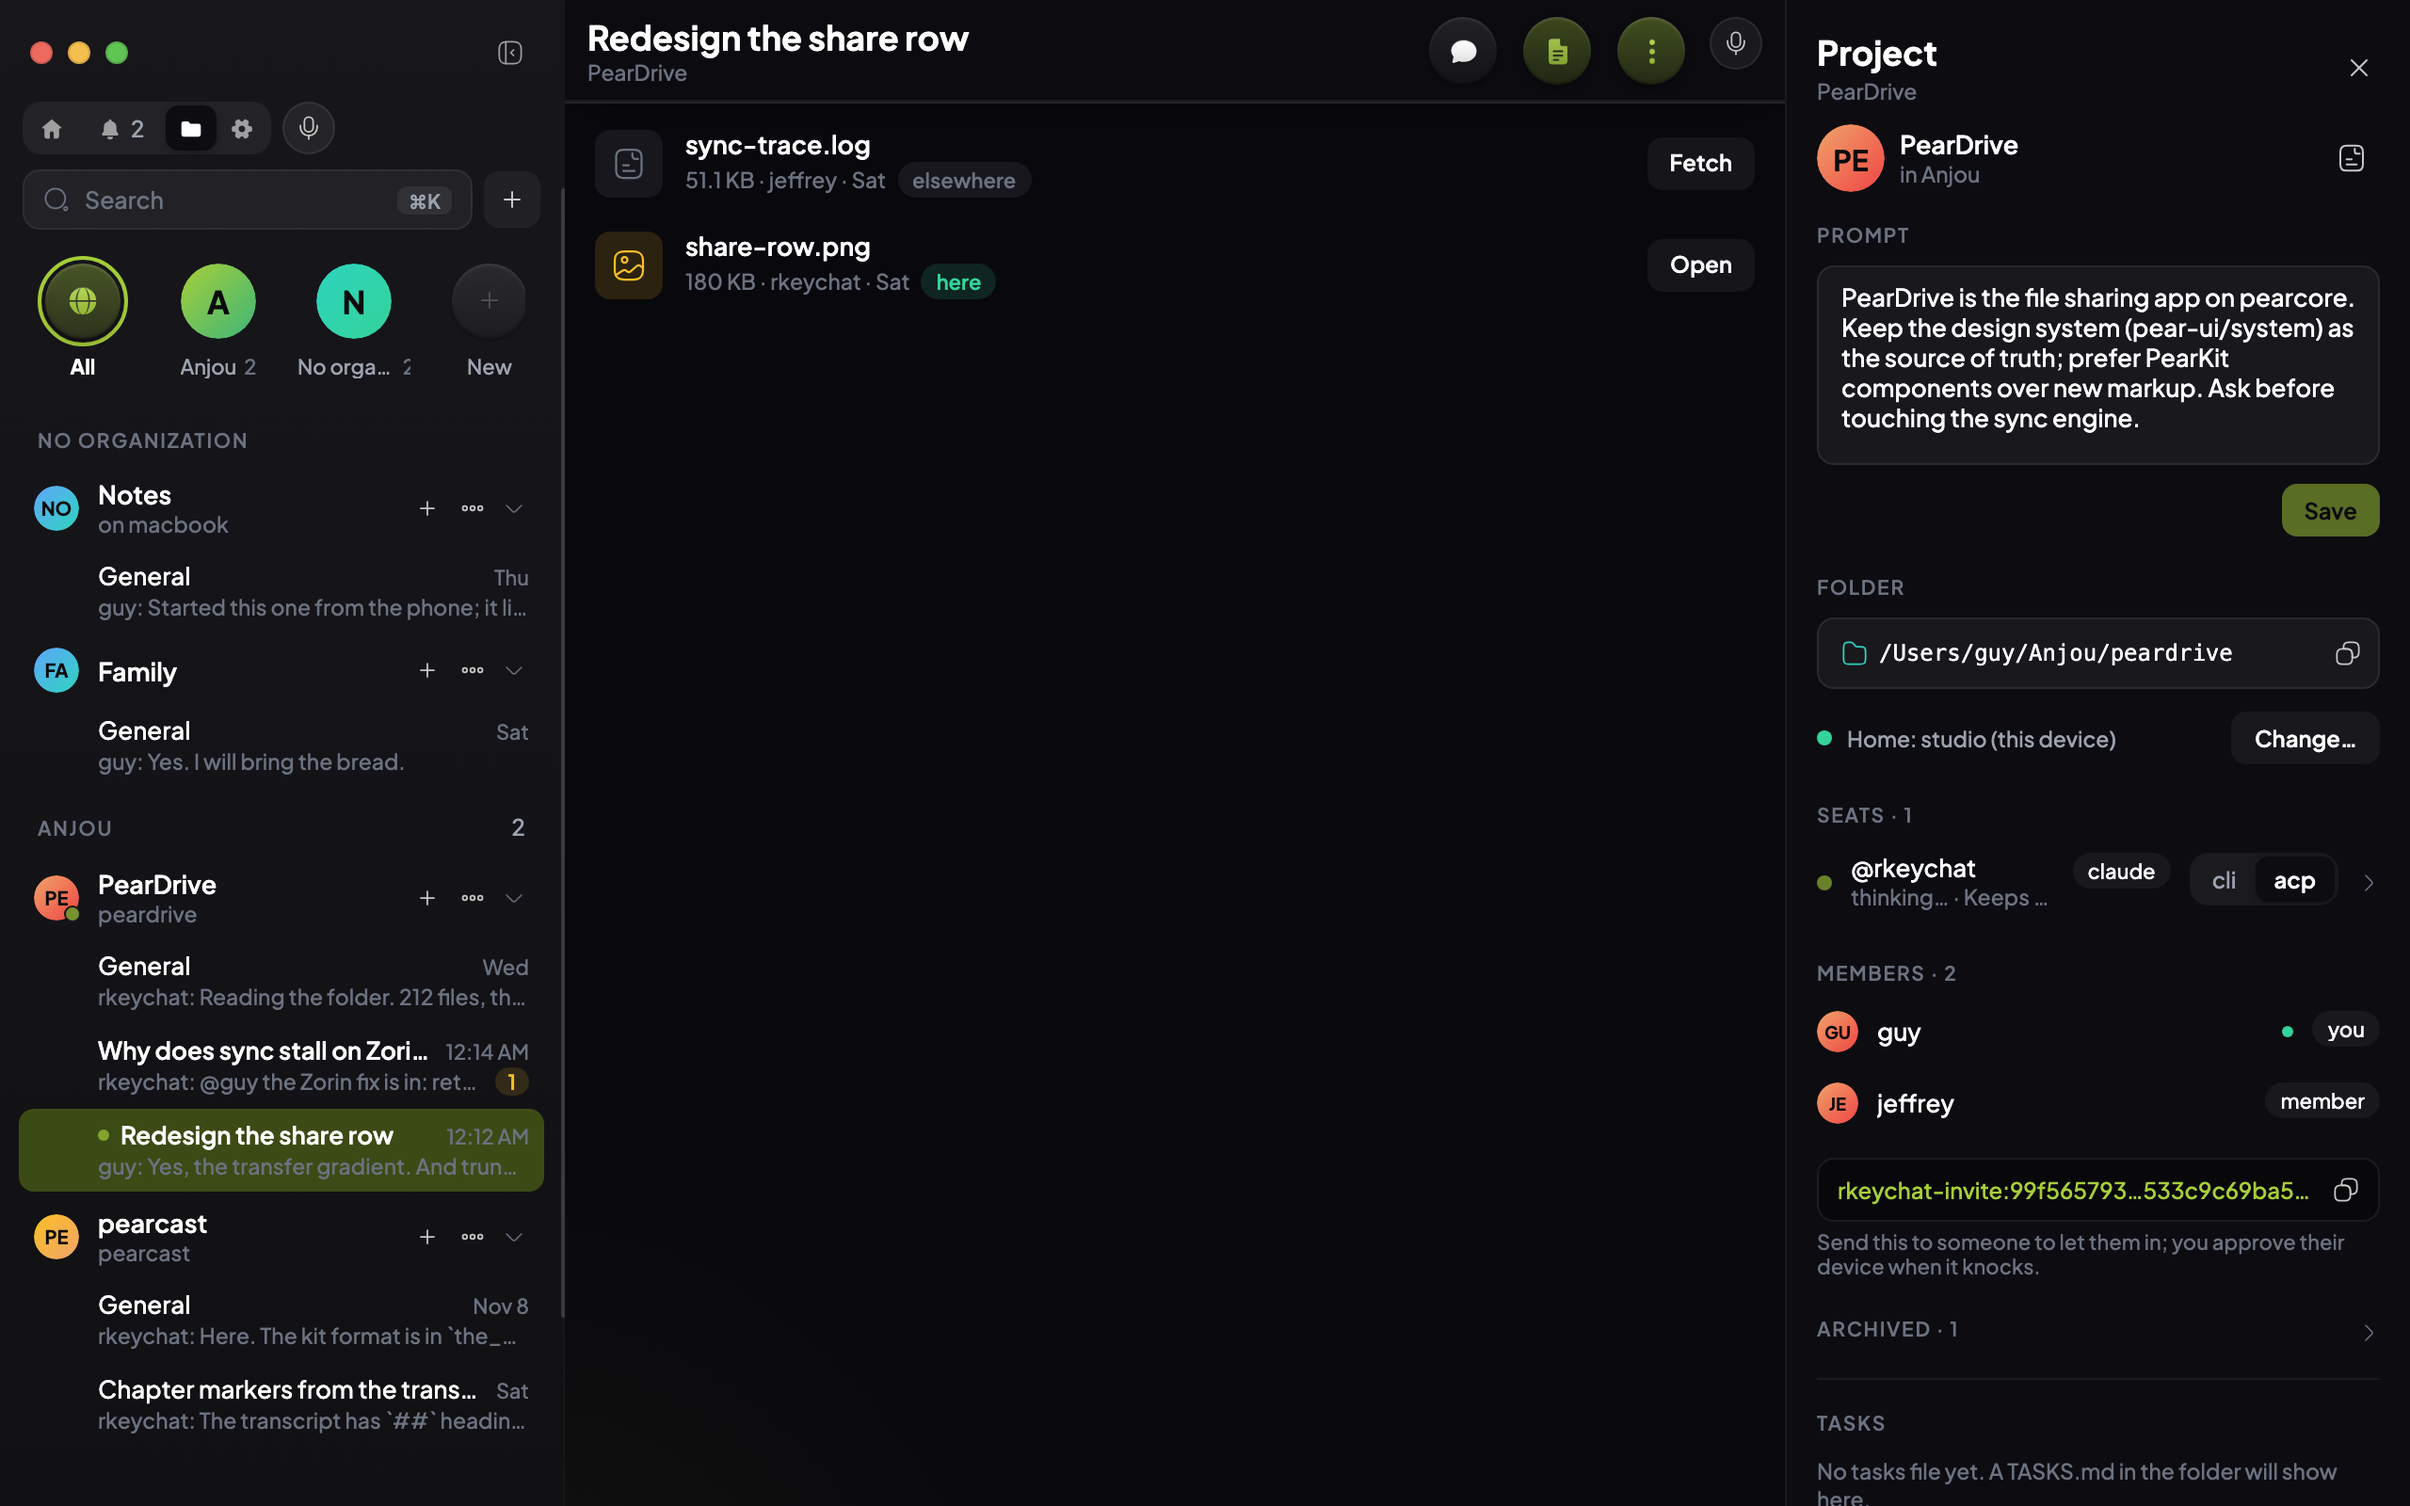
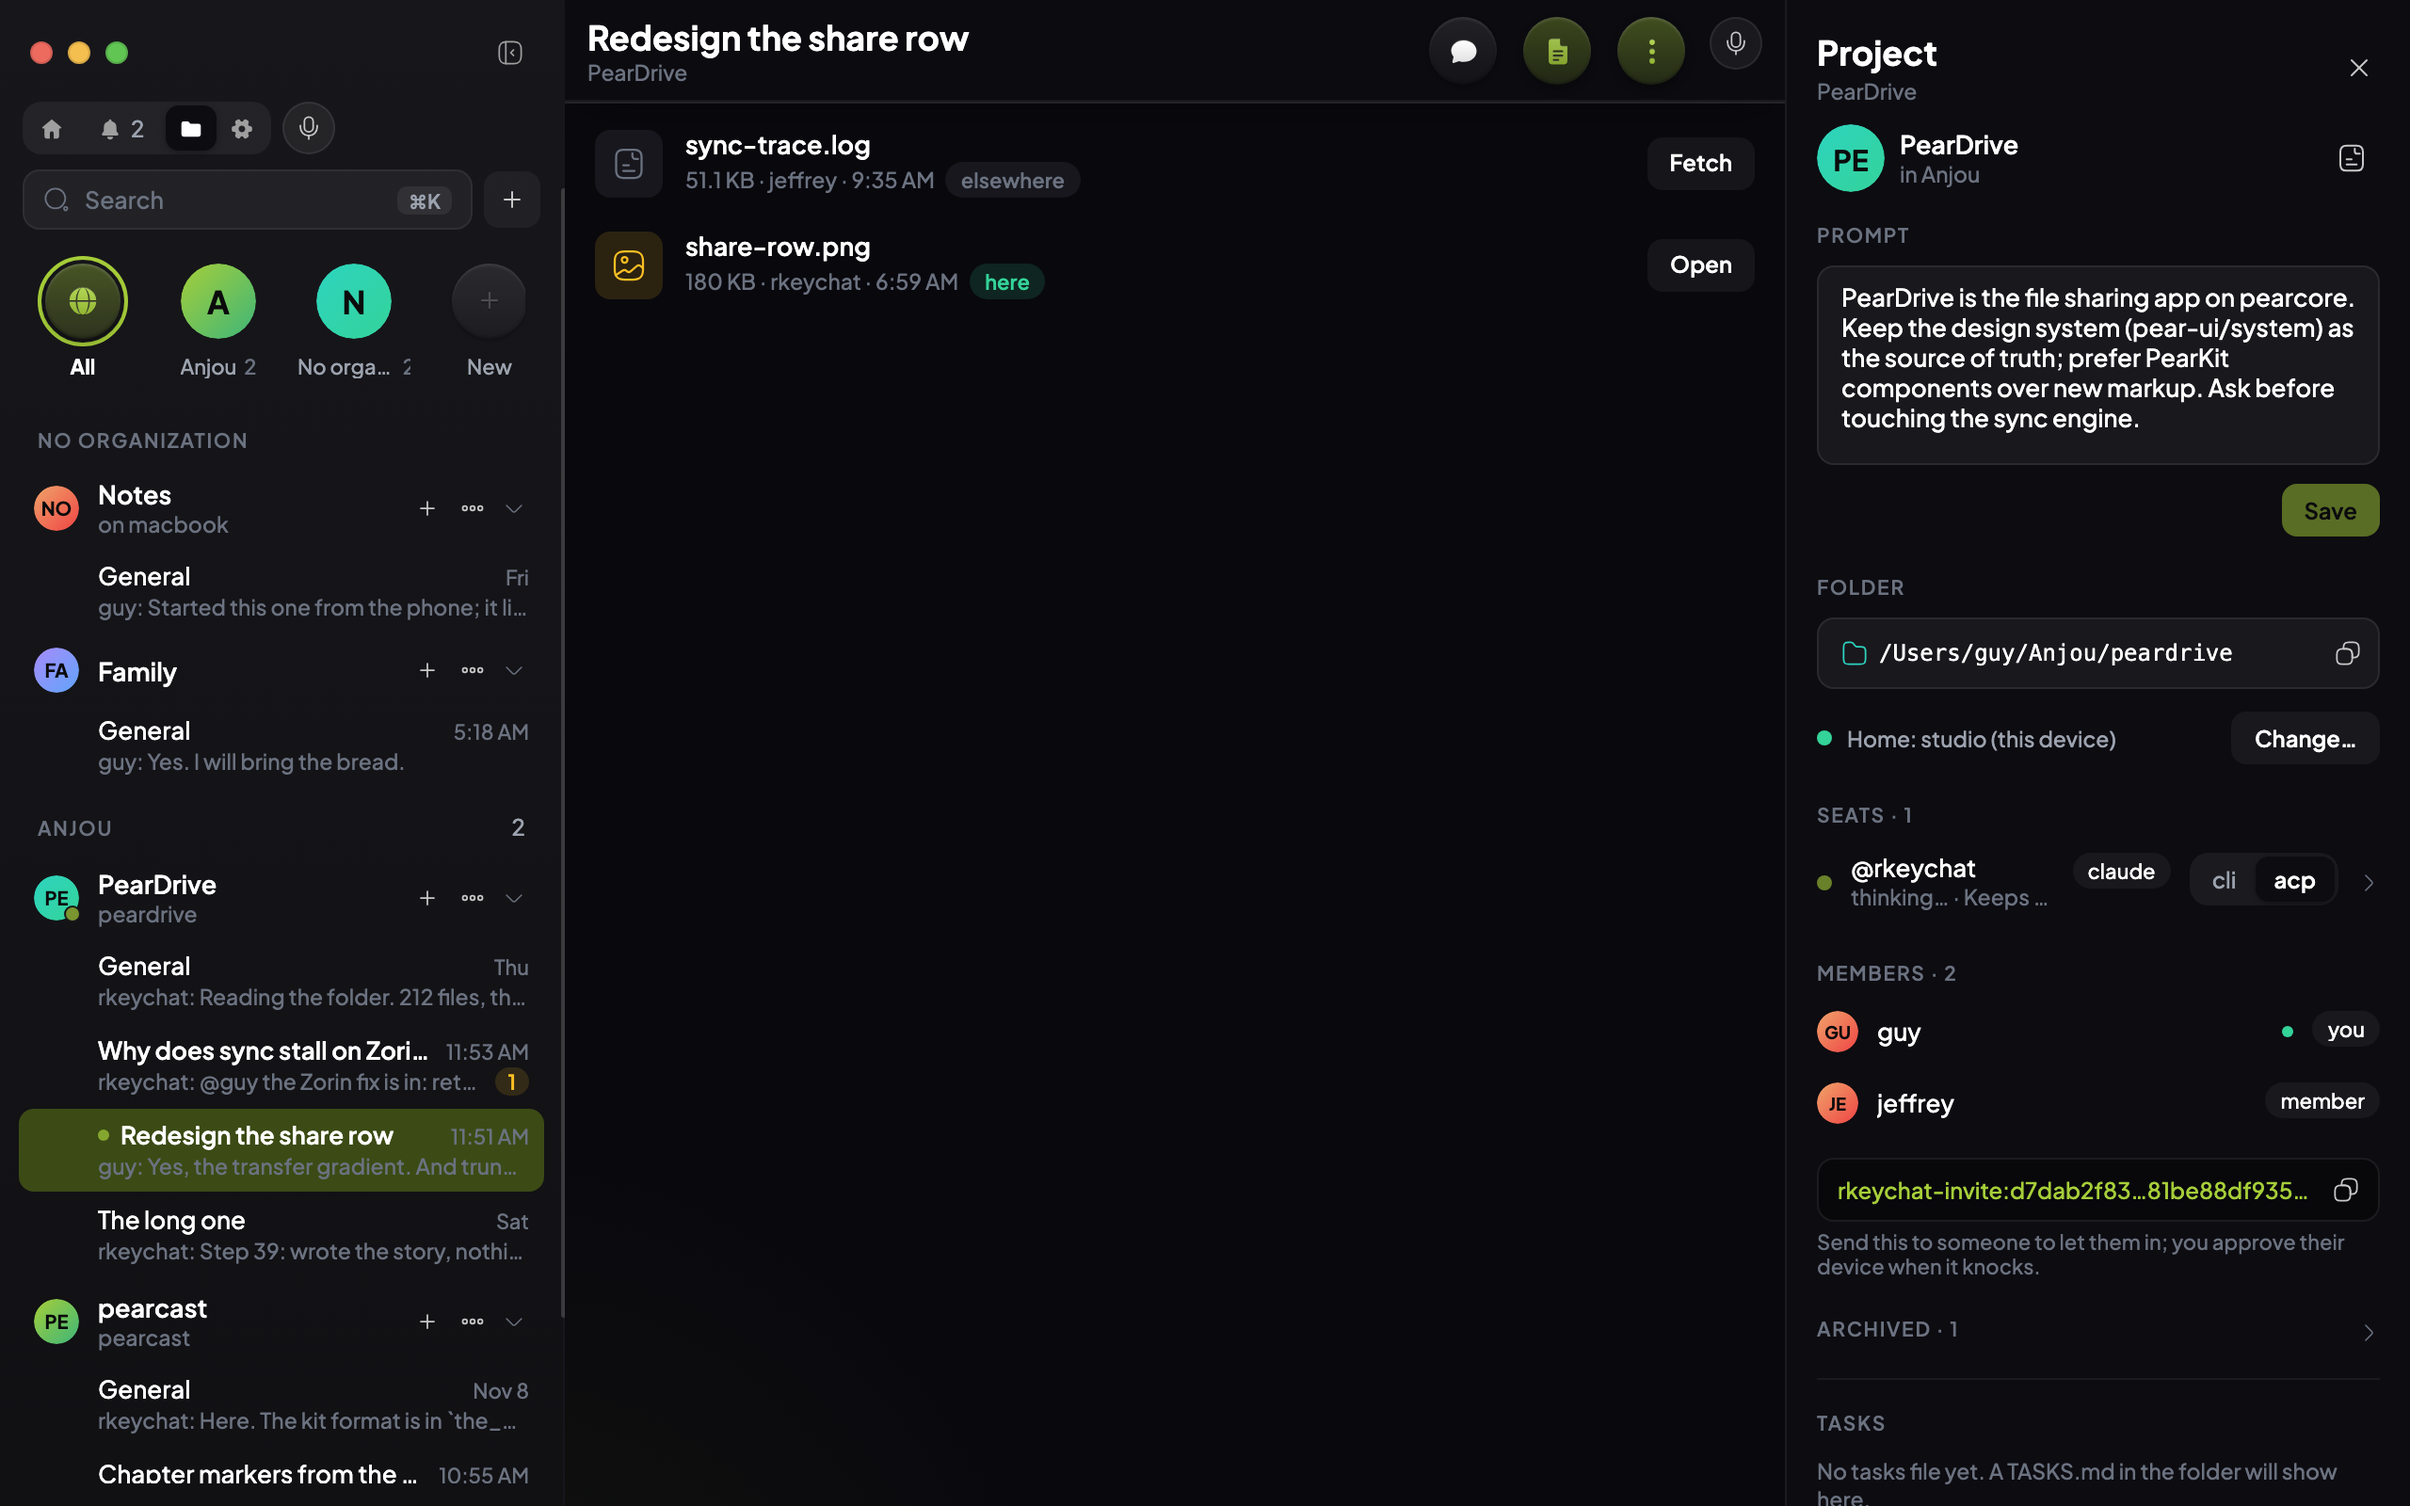
chat: the keyboard slides the conversation up as one piece; a tighter composer; GUI tests in a real browser
- PearKit MessageList (805ba12) keeps the bottom edge anchored when its box changes height; here the shell
  drops the home-bar inset under the composer while the keyboard is up (useKeyboardOpen) and shows the status
  line above the field only when there is something to say
- app/scripts/gui.test.mjs: send, the keyboard at the end and while reading, a reply landing while reading,
  Back from a project, Enter / Shift+Enter, against the mock in Chromium (npm run test:gui; the Mini's quick
  run has it as "shell: gui"); the mock gains a conversation taller than any screen
- docs: how the phone's backend log is read with devicectl, and what was really wrong with "Leaf Note"

Claude-Session: https://claude.ai/code/session_01HezAuHKhVNcrt1UHSyXJgA

diff --git a/app/src/components/ConversationPane.tsx b/app/src/components/ConversationPane.tsx
@@ -5,7 +5,7 @@
  */
 import React, { useCallback, useEffect, useMemo, useRef, useState } from 'react';
 import { ActivityIndicator, Platform, Pressable, View } from 'react-native';
-import { SAFE_BOTTOM, SAFE_TOP, isTouch, type TextInputRef } from '../hooks';
+import { SAFE_BOTTOM, SAFE_TOP, isTouch, useKeyboardOpen, type TextInputRef } from '../hooks';
 import { Button, Composer, Dialog, EmojiPicker, EmptyState, GlassBar, GlassBarButton, IconButton, MessageList, Pane, SegmentedControl, StatusDot, Text, TextField, Toggle, copyToClipboard, useToast } from '../kit';
 import { useStore } from '../store/context';
 import { bumpEmoji, readEmojiCounts, saveEmojiCounts, topEmoji } from '../store/emoji';
@@ -42,6 +42,7 @@ export function ConversationPane({ phone, projectOpen, onToggleProject, onBack, 
   const convId = state.selected.conv;
   const key = topic && convId ? convKey(topic, convId) : null;
   const touch = isTouch();
+  const keyboard = useKeyboardOpen();
 
   const [tab, setTabState] = useState<ConversationTab>('chat');
   const setTab = (t: ConversationTab) => {
@@ -138,7 +139,9 @@ export function ConversationPane({ phone, projectOpen, onToggleProject, onBack, 
   };
 
   const title = convTitle(conv);
-  const composerStyle = phone ? ({ paddingBottom: `calc(12px + ${SAFE_BOTTOM})` } as never) : undefined;
+  // Under the composer: the home bar's inset while the keyboard is down; with the keyboard up the inset is covered,
+  // so only a hair of space, and the field sits right on the keyboard.
+  const composerStyle = phone ? ({ paddingBottom: keyboard ? 4 : `calc(8px + ${SAFE_BOTTOM})` } as never) : { paddingBottom: 10 };
   // The glass bar is absolute inside a box of its own height, so it reads as a pinned bar under the safe area.
   const barBox = phone ? ({ height: `calc(${BAR}px + ${SAFE_TOP})` } as never) : { height: BAR };
   const back = onBack ? <IconButton icon="chevron-left" size="sm" hitSlop={10} accessibilityLabel="Back" onPress={onBack} className="-ml-1 app-region-no-drag" /> : undefined;
@@ -239,7 +242,9 @@ export function ConversationPane({ phone, projectOpen, onToggleProject, onBack, 
         </View>
       )}
       {tab === 'chat' ? (
-        <View className="gap-1.5 px-3 pb-3 pt-1" style={composerStyle}>
+        <View className="gap-1 px-3" style={composerStyle}>
+          {/* the status line only when there is something to say: otherwise the messages run right down to the field */}
+          {thinking.length || hasSteps ? (
           <View className="h-5 flex-row items-center gap-1.5 px-1">
             {thinking.length ? (
               <>
@@ -265,6 +270,7 @@ export function ConversationPane({ phone, projectOpen, onToggleProject, onBack, 
               />
             ) : null}
           </View>
+          ) : null}
           <Composer
             ref={composerRef}
             value={draft}

diff --git a/app/src/mock/index.ts b/app/src/mock/index.ts
@@ -97,6 +97,7 @@ const peardrive = room({
     { conv: 'a1b2c3d4e5f60718', title: 'Redesign the share row', created: min(300), runtime: 'acp' },
     { conv: 'b2c3d4e5f6071829', title: 'Why does sync stall on Zorin?', created: min(140) },
     { conv: 'c3d4e5f607182930', title: 'Old: icon export script', created: min(9000), archived: true },
+    { conv: 'e5f60718293a4b5c', title: 'The long one', created: min(2000) },
   ],
   log: [
     msg(ME, 'Project is up. @rkeychat you are on PearDrive now.', min(4990), 'main'),
@@ -111,6 +112,12 @@ const peardrive = room({
     msg('jeffrey', 'Sync sits at 98% on the Zorin box for a very long time, then finishes. Every time.', min(139), 'b2c3d4e5f6071829'),
     msg('rkeychat', 'That is the last block of the largest file waiting on a peer that went to sleep. `SyncEngine.finish()` only retries after 30 s. I can lower the retry to 5 s and log which peer it waits on.', min(137), 'b2c3d4e5f6071829'),
     msg(ME, 'Archived this one: the script lives in pearkit now.', min(8990), 'c3d4e5f607182930'),
+    // a conversation taller than any screen: what scrolling, the keyboard and arriving replies are tested against
+    ...Array.from({ length: 40 }, (_, i) =>
+      i % 2
+        ? msg('rkeychat', `Step ${i}: ${['checked the renderer', 'ran the tests', 'moved the row into PearKit', 'wrote the story'][i % 4]}, nothing else touched. Next?`, min(1990 - i * 3), 'e5f60718293a4b5c')
+        : msg(ME, `Note ${i}: keep going, and show me the diff when the share row is in.`, min(1990 - i * 3), 'e5f60718293a4b5c'),
+    ),
   ],
 });
 peardrive.convs.get('a1b2c3d4e5f60718')!.busy = ['rkeychat'];

diff --git a/app/src/hooks.ts b/app/src/hooks.ts
@@ -94,3 +94,28 @@ export function useDelayed(value: boolean, ms = 250) {
   }, [value, ms]);
   return shown;
 }
+
+/**
+ * Is the on-screen keyboard up? On a phone the visual viewport shrinks under it while the layout viewport stays:
+ * the difference is the keyboard. (main.tsx sizes the root to the visual viewport, so the page itself follows.)
+ */
+export function useKeyboardOpen(threshold = 100): boolean {
+  const read = () => {
+    const vv = typeof window !== 'undefined' ? window.visualViewport : null;
+    return !!vv && window.innerHeight - vv.height > threshold;
+  };
+  const [open, setOpen] = useState(read);
+  useEffect(() => {
+    const vv = window.visualViewport;
+    if (!vv) return;
+    const onChange = () => setOpen(read());
+    vv.addEventListener('resize', onChange);
+    window.addEventListener('resize', onChange);
+    return () => {
+      vv.removeEventListener('resize', onChange);
+      window.removeEventListener('resize', onChange);
+    };
+    // eslint-disable-next-line react-hooks/exhaustive-deps
+  }, [threshold]);
+  return open;
+}

diff --git a/docs/projects-round-2.md b/docs/projects-round-2.md
@@ -121,3 +121,21 @@ room; the owner's removal writes a `close` control first and every holder drops 
 its next start); the phone shows "Waiting on macbook" rows (`GET /api/projects/pending`) until the room
 arrives, with a way to stop waiting. Tests: `test/project-requests.test.js`, the reducer tests in
 `app/src/store/round2.test.ts`.
+
+### The phone, the keyboard, and what was really wrong (2026-11-22, later)
+
+The "Leaf Note" that would not answer was the room the MacBook had mis-made as "guy" on 19 Nov: Guy had renamed
+it "Leaf Note by Anjou" from the phone, the Mac removed it the same evening, and the phone kept it, so the phone
+held two rooms of that name, one dead. (Read off the phone itself: `xcrun devicectl device copy from --device
+<udid> --domain-type appDataContainer --domain-identifier com.anjouinc.rkeychat --source Documents/boot.log`
+gives the phone backend's whole log; `Documents/rkeychat/config.json` its room list.) The Mac re-joined the dead
+room from the invite still in the Lab's log so it can close it for everyone once the phone brings the chain.
+
+The keyboard: PearKit's `MessageList` now keeps its bottom edge anchored when its box changes height
+(`anchoredScrollY`): the chat slides up as one piece, the message above the field stays there, whether at the
+newest message or reading older ones. The shell drops the home-bar inset under the composer while the keyboard
+is up (`useKeyboardOpen`), and the status line above the field exists only when there is something to say.
+
+GUI tests: `app/scripts/gui.test.mjs` drives the mock in a real browser (phone and desktop): send, the keyboard
+coming up and going away at the end and while reading, a reply landing while reading, Back from a project,
+Enter / Shift+Enter. `npm --prefix app run test:gui`; the Mac Mini's quick run has it as "shell: gui".
